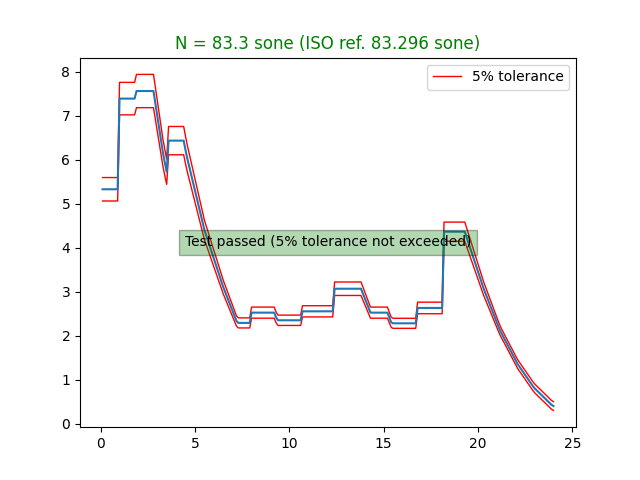
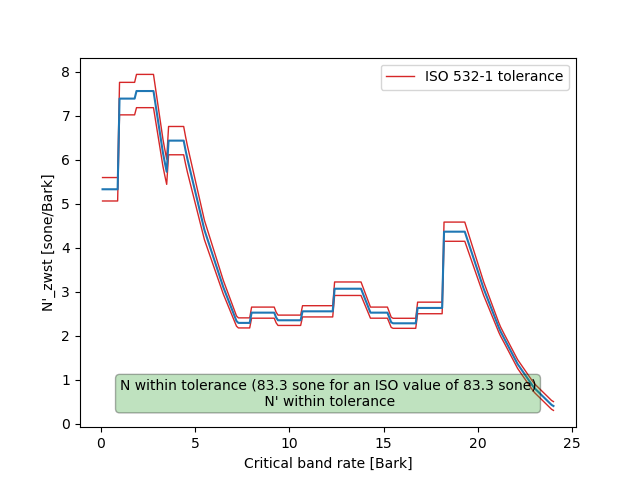
[CC] validation loudness_zwst reworked

diff --git a/validations/sq_metrics/loudness_zwst/validation_loudness_zwst.py b/validations/sq_metrics/loudness_zwst/validation_loudness_zwst.py
@@ -13,6 +13,7 @@ except ImportError:
     )
 
 # Third party imports
+from os.path import basename, splitext
 import numpy as np
 
 # Local application imports
@@ -49,9 +50,10 @@ def validation_loudness_zwst_3oct():
     # (from ISO 532-1 annex B2) : test_signal_1
 
     # Load ISO reference outputs
+    file_path = "./validations/sq_metrics/loudness_zwst/input/ISO_532_1/test_signal_1.csv"
     N_iso = 83.296
     N_specif_iso = np.genfromtxt(
-        "./validations/sq_metrics/loudness_zwst/input/ISO_532_1/test_signal_1.csv", skip_header=1
+        file_path, skip_header=1
     )
 
     # Compute loudness
@@ -63,39 +65,15 @@ def validation_loudness_zwst_3oct():
     # Test
     is_isoclose_N = isoclose(N_iso, N, rtol=5/100,
                              atol=0.1, is_plot=False, xaxis=None)
-    is_isoclose_N_sepcific = isoclose(
-        N_specif_iso, N_specific, rtol=5/100, atol=0.1, is_plot=True, xaxis=bark_axis)
+    is_isoclose_N_specific = isoclose(
+        N_specif_iso, N_specific, rtol=5/100, atol=0.1, is_plot=True, tol_label='ISO 532-1 tolerance', xaxis=bark_axis)
+
+    # Format and save validation plot
+    _format_plot(is_isoclose_N, is_isoclose_N_specific, N,
+                 N_iso, splitext(basename(file_path))[0])
 
 
-#
-# Test signal as input for stationary loudness
-#  # (from ISO 532-1 annex B3)
-
-signal = np.zeros((4), dtype=dict)
-
-signal[0] = {
-    "data_file": "./validations/sq_metrics/loudness_zwst/input/ISO_532_1/Test signal 2 (250 Hz 80 dB).wav",
-    "N": 14.655,
-    "N_specif_file": "./validations/sq_metrics/loudness_zwst/input/ISO_532_1/test_signal_2.csv",
-}
-signal[1] = {
-    "data_file": "./validations/sq_metrics/loudness_zwst/input/ISO_532_1/Test signal 3 (1 kHz 60 dB).wav",
-    "N": 4.019,
-    "N_specif_file": "./validations/sq_metrics/loudness_zwst/input/ISO_532_1/test_signal_3.csv",
-}
-signal[2] = {
-    "data_file": "./validations/sq_metrics/loudness_zwst/input/ISO_532_1/Test signal 4 (4 kHz 40 dB).wav",
-    "N": 1.549,
-    "N_specif_file": "./validations/sq_metrics/loudness_zwst/input/ISO_532_1/test_signal_4.csv",
-}
-signal[3] = {
-    "data_file": "./validations/sq_metrics/loudness_zwst/input/ISO_532_1/Test signal 5 (pinknoise 60 dB).wav",
-    "N": 10.498,
-    "N_specif_file": "./validations/sq_metrics/loudness_zwst/input/ISO_532_1/test_signal_5.csv",
-}
-
-
-def validation_loudness_zwst(signal):
+def validation_loudness_zwst():
     """Test function for the script loudness_zwicker_stationary
 
     Test function for the script loudness_zwicker_stationary with
@@ -112,22 +90,53 @@ def validation_loudness_zwst(signal):
     None
     """
 
-    # Load signal and compute third octave band spectrum
-    sig, fs = load(signal["data_file"], wav_calib=2 * 2 ** 0.5)
+    #
+    # Test signal as input for stationary loudness
+    #  # (from ISO 532-1 annex B3)
 
-    # Compute Loudness
-    N, N_specific, bark_axis = loudness_zwst(sig, fs)
-    loudness = {
-        "name": "Loudness",
-        "values": N,
-        "specific values": N_specific,
-        "freqs": bark_axis,
-    }
+    signals = [
+        {
+            "data_file": "./validations/sq_metrics/loudness_zwst/input/ISO_532_1/Test signal 2 (250 Hz 80 dB).wav",
+            "N": 14.655,
+            "N_specif_file": "./validations/sq_metrics/loudness_zwst/input/ISO_532_1/test_signal_2.csv",
+        },
+        {
+            "data_file": "./validations/sq_metrics/loudness_zwst/input/ISO_532_1/Test signal 3 (1 kHz 60 dB).wav",
+            "N": 4.019,
+            "N_specif_file": "./validations/sq_metrics/loudness_zwst/input/ISO_532_1/test_signal_3.csv",
+        },
+        {
+            "data_file": "./validations/sq_metrics/loudness_zwst/input/ISO_532_1/Test signal 4 (4 kHz 40 dB).wav",
+            "N": 1.549,
+            "N_specif_file": "./validations/sq_metrics/loudness_zwst/input/ISO_532_1/test_signal_4.csv",
+        },
+        {
+            "data_file": "./validations/sq_metrics/loudness_zwst/input/ISO_532_1/Test signal 5 (pinknoise 60 dB).wav",
+            "N": 10.498,
+            "N_specif_file": "./validations/sq_metrics/loudness_zwst/input/ISO_532_1/test_signal_5.csv",
+        },
+    ]
 
-    # Check ISO 532-1 compliance
-    _ = _check_compliance(
-        loudness, signal, "./validations/sq_metrics/loudness_zwst/output/"
-    )
+    for signal in signals:
+        # Load signal and compute third octave band spectrum
+        sig, fs = load(signal["data_file"], wav_calib=2 * 2 ** 0.5)
+
+        # Compute Loudness
+        N, N_specific, bark_axis = loudness_zwst(sig, fs)
+
+        # Load reference N'
+        N_iso = signal["N"]
+        N_specif_iso = np.genfromtxt(signal["N_specif_file"], skip_header=1)
+
+        # Test
+        is_isoclose_N = isoclose(N_iso, N, rtol=5/100,
+                                 atol=0.1, is_plot=False, xaxis=None)
+        is_isoclose_N_specific = isoclose(
+            N_specif_iso, N_specific, rtol=5/100, atol=0.1, is_plot=True, tol_label='ISO 532-1 tolerance', xaxis=bark_axis)
+
+        # Format and save validation plot
+        _format_plot(is_isoclose_N, is_isoclose_N_specific, N,
+                     N_iso, splitext(basename(signal["data_file"]))[0])
 
 
 def _check_compliance(loudness, iso_ref, out_dir):
@@ -246,8 +255,43 @@ def _check_compliance(loudness, iso_ref, out_dir):
     return tst
 
 
+def _format_plot(is_isoclose_N, is_isoclose_N_specific, N, N_iso, filename):
+    # Format plot
+    plt.xlabel('Critical band rate [Bark]')
+    plt.ylabel('N\'_zwst [sone/Bark]')
+    color = 'tab:green'
+    if is_isoclose_N:
+        txt_label = "N within tolerance (%.1f sone for an ISO value of %.1f sone)" % (
+            N, N_iso)
+    else:
+        txt_label = "N without tolerance (%.1f sone for an ISO value of %.1f sone)" % (
+            N, N_iso)
+        color = 'tab:red'
+    if is_isoclose_N_specific:
+        txt_label += '\n N\' within tolerance'
+    else:
+        txt_label += '\n N\' without tolerance'
+        color = 'tab:red'
+    props = dict(boxstyle='round', facecolor=color, alpha=0.3)
+    plt.text(
+        0.5,
+        0.05,
+        txt_label,
+        horizontalalignment="center",
+        verticalalignment="bottom",
+        transform=plt.gca().transAxes,
+        bbox=props,
+    )
+    out_dir = "./validations/sq_metrics/loudness_zwst/output/"
+    plt.savefig(
+        out_dir + 'validation_loudness_zwst_' +
+        "_".join(filename.split(" ")) + ".png",
+        format="png",
+    )
+    plt.close()
+
+
 # test de la fonction
 if __name__ == "__main__":
     validation_loudness_zwst_3oct()
-    # for i in range(len(signal)):
-    #     validation_loudness_zwst(signal[i])
+    validation_loudness_zwst()

diff --git a/mosqito/utils/isoclose.py b/mosqito/utils/isoclose.py
@@ -10,7 +10,7 @@ except ImportError:
 import numpy as np
 
 
-def isoclose(actual, desired, rtol=1e-7, atol=0, is_plot=False, xaxis=None):
+def isoclose(actual, desired, rtol=1e-7, atol=0, is_plot=False, tol_label=None, xaxis=None):
     """
     Check if two arrays are equal up to desired tolerance.
 
@@ -29,6 +29,8 @@ def isoclose(actual, desired, rtol=1e-7, atol=0, is_plot=False, xaxis=None):
         Absolute tolerance.
     is_plot : bool, optional
         To generate a "compliance" plot
+    tol_label: str
+        Label for the tolerance curves
     xaxis : array_like, optional
         x axis for the "compliance" plot
 
@@ -59,7 +61,7 @@ def isoclose(actual, desired, rtol=1e-7, atol=0, is_plot=False, xaxis=None):
             range_neg,
             color="tab:red",
             linestyle="solid",
-            # label="5% tolerance",
+            label=tol_label,
             linewidth=1,
         )
         plt.plot(
@@ -70,9 +72,9 @@ def isoclose(actual, desired, rtol=1e-7, atol=0, is_plot=False, xaxis=None):
             # label="",
             linewidth=1,
         )
-        # plt.legend()
 
         # Plot actual value
         plt.plot(xaxis, actual)
+        plt.legend()
 
     return is_isoclose
